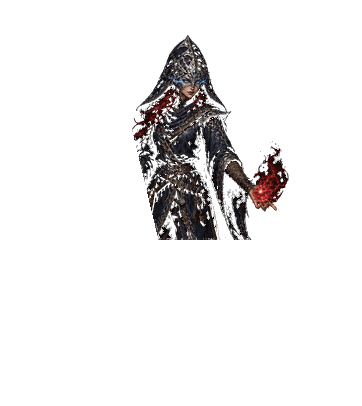
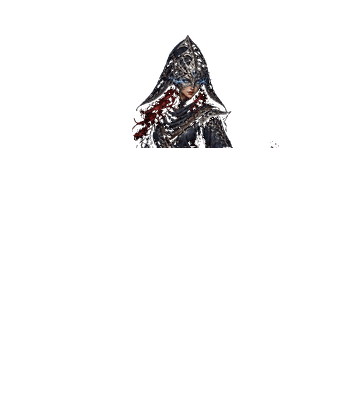
fix(mage): 마법사 모자·투구 파츠에서 상반신 걷어내기 — 투구만 빛나고 로브는 원래 색 (작업 247) (#252)
* fix(mage): 마법사 모자·투구 파츠에서 상반신 걷어내기 — 투구만 빛나고 로브는 원래 색 (작업 247)

원인: mage_helms 파츠 20장이 머리·모자만이 아니라 어깨·가슴·허리·양팔·왼손 불꽃(셀 y 195)까지 담고 있어, 투구를 쓰면 파츠가 로브 위를 덮고 등급색 발광이 상반신 전체를 물들였다(IMG_1147).

- 파츠 마스크를 머리 구멍과 같은 목선(NECK_Y=104)에서 끝나게 하고 20장을 같은 시안에서 재생성(작업 227 알파 기준 유지)
- 마법사 투구 발광 마스크(성별, 캔버스 캐시): 목선으로 사라지는 페이드 + 얼굴 도려내기. 필드는 syncGearGlow maskTexture, 장비창은 paintPatch destination-in
- PILOT_ASSET_VERSION 4 → 5 (같은 파일명 재배포 캐시 무효화)

* docs: 작업 247 프리뷰 배포 실측 기록(자산 md5 일치·번들 확인)

---------

Changed region(s): [[0.3646, 0.3547, 0.8204, 0.5911]]

diff --git a/src/game/render/mageHelmets.ts b/src/game/render/mageHelmets.ts
@@ -1,4 +1,5 @@
 import type { Gender, Save } from '../store';
+import { Texture } from 'pixi.js';
 import { baseItemIndex } from '../items';
 import { pilotSheet } from './pilotAssets';
 
@@ -127,3 +128,83 @@ export function mageHelmPlacement(gender: Gender, motion: MageHelmMotion, frame 
 
 /** 장비창(내 정보) 초상화는 서기 한 장만 쓴다. */
 export const mageHelmIdlePlacement = idlePlacement;
+
+/* ── 투구 발광 마스크 (작업 247) ─────────────────────────────────────────── */
+
+/** 파츠 PNG의 셀 크기·높이(셀 362 + 위 여유 44). */
+export const MAGE_HELM_CELL = 362;
+export const MAGE_HELM_PART_HEIGHT = MAGE_HELM_CELL + MAGE_HELM_EXTRA_TOP;
+
+/**
+ * 발광 범위 — “모자·투구만 빛나고 얼굴과 로브는 원래 색” 을 만드는 경계(셀 좌표).
+ *
+ * · `fadeStart`~`fadeEnd`: 목선으로 갈수록 빛이 사라진다. 파츠가 목선(셀 y 104)에서 끊기므로,
+ *   그대로 두면 가슴께에 **직선으로 잘린 발광 띠**가 남는다(실측 검수에서 확인).
+ * · `face`: 얼굴·목의 피부는 빛을 받지 않게 부드럽게 도려낸다. 파츠에 얼굴이 함께 들어 있어
+ *   그냥 두면 유니크·전설 투구에서 얼굴이 통째로 등급색 덩어리가 된다.
+ *
+ * 남녀 모두 서기 셀의 같은 자리(머리 중심 x≈194/205)에 얼굴이 있어 성별로만 나눈다.
+ */
+export type MageHelmGlowZone = {
+  fadeStart: number;
+  fadeEnd: number;
+  face: { x: number; y: number; inner: number; outer: number };
+};
+
+export const MAGE_HELM_GLOW_ZONE: Record<Gender, MageHelmGlowZone> = {
+  female: { fadeStart: 84, fadeEnd: 106, face: { x: 194, y: 48, inner: 20, outer: 34 } },
+  male: { fadeStart: 84, fadeEnd: 108, face: { x: 205, y: 52, inner: 22, outer: 36 } }
+};
+
+/**
+ * 셀 좌표 한 점의 발광 세기(0~1). 캔버스 생성과 테스트가 **같은 식**을 쓴다.
+ *
+ * 목선 쪽은 선형으로 줄고, 얼굴은 `inner`까지 완전히 0, `outer`까지 smoothstep으로 올라온다.
+ */
+export function mageHelmGlowAlpha(gender: Gender, x: number, y: number): number {
+  const zone = MAGE_HELM_GLOW_ZONE[gender];
+  const span = Math.max(1, zone.fadeEnd - zone.fadeStart);
+  const fade = Math.min(1, Math.max(0, (zone.fadeEnd - y) / span));
+  const reach = Math.hypot(x - zone.face.x, y - zone.face.y);
+  const skin = Math.min(1, Math.max(0, (reach - zone.face.inner) / Math.max(1, zone.face.outer - zone.face.inner)));
+  return fade * (skin * skin * (3 - 2 * skin));
+}
+
+const glowMaskTextures = new Map<Gender, Texture>();
+
+/**
+ * 발광 마스크 캔버스 — 파츠와 같은 362×406 이라 파츠와 **같은 앵커·위치·배율**로 얹으면 된다.
+ * 픽셀마다 `mageHelmGlowAlpha` 를 알파로 굽는다(RGB는 흰색, 마스크는 알파만 쓴다).
+ */
+export function mageHelmGlowMaskCanvas(gender: Gender): HTMLCanvasElement | undefined {
+  if (typeof document === 'undefined') return undefined;
+  const canvas = document.createElement('canvas');
+  canvas.width = MAGE_HELM_CELL;
+  canvas.height = MAGE_HELM_PART_HEIGHT;
+  const context = canvas.getContext('2d');
+  if (!context) return undefined;
+  const frame = context.createImageData(MAGE_HELM_CELL, MAGE_HELM_PART_HEIGHT);
+  const pixels = frame.data;
+  for (let row = 0; row < MAGE_HELM_PART_HEIGHT; row += 1) {
+    const cellY = row - MAGE_HELM_EXTRA_TOP;
+    for (let column = 0; column < MAGE_HELM_CELL; column += 1) {
+      const index = (row * MAGE_HELM_CELL + column) * 4;
+      const alpha = mageHelmGlowAlpha(gender, column, cellY);
+      pixels[index] = 255; pixels[index + 1] = 255; pixels[index + 2] = 255;
+      pixels[index + 3] = Math.round(alpha * 255);
+    }
+  }
+  context.putImageData(frame, 0, 0);
+  return canvas;
+}
+
+/** 필드 발광 스프라이트의 마스크 텍스처(성별당 1장, 캐시). */
+export function mageHelmGlowMaskTexture(gender: Gender): Texture | undefined {
+  const cached = glowMaskTextures.get(gender);
+  if (cached) return cached;
+  const canvas = mageHelmGlowMaskCanvas(gender);
+  if (!canvas) return undefined;
+  const texture = Texture.from(canvas);
+  glowMaskTextures.set(gender, texture);
+  return texture;
+}

diff --git a/src/ui/equipmentPortrait.ts b/src/ui/equipmentPortrait.ts
@@ -14,7 +14,7 @@ import { WEAPON_GUARD, weaponIndexFor, weaponPartPath, weaponPose, swordlessBody
 import { BOW_GRIP, bowIndexFor, bowPartPath, bowPose, bowlessBodyPath, usesBowlessBody } from '../game/render/bows';
 import { STAFF_GRIP, staffIndexFor, staffPartPath, staffPlacement, stafflessBodyPath, usesStafflessBody } from '../game/render/staffs';
 import { archerHeadlessBodyPath, archerHelmIdlePlacement, archerHelmIndexFor, archerHelmPartPath } from '../game/render/archerHelmets';
-import { mageHeadlessBodyPath, mageHelmIdlePlacement, mageHelmIndexFor, mageHelmPartPath } from '../game/render/mageHelmets';
+import { mageHeadlessBodyPath, mageHelmGlowMaskCanvas, mageHelmIdlePlacement, mageHelmIndexFor, mageHelmPartPath } from '../game/render/mageHelmets';
 import { gearGlowCss, gearGlowTone } from '../game/render/gearGlow';
 
 /**
@@ -179,6 +179,8 @@ export type EquipmentPortraitMageHelm = {
   x: number;
   y: number;
   scale: number;
+  /** 발광 마스크(얼굴·목선 아래 제외)를 고를 때 쓰는 성별(작업 247). */
+  gender: Save['gender'];
 };
 
 /** 착용 마법사 투구 파츠. 마법사가 아니거나 투구가 없으면 undefined. */
@@ -187,7 +189,7 @@ export function equipmentPortraitMageHelm(save: Save): EquipmentPortraitMageHelm
   const path = mageHelmPartPath(save.gender, mageHelmIndexFor(save));
   if (!path) return undefined;
   const place = mageHelmIdlePlacement;
-  return { path, x: place.x, y: place.y, scale: place.scale };
+  return { path, x: place.x, y: place.y, scale: place.scale, gender: save.gender };
 }
 
 export type EquipmentPortraitHelmet = {
@@ -449,7 +451,7 @@ const headCell = { x: 228, y: 74, rx: 38, ry: 44 } as const;
  */
 function paintPatch(
   context: CanvasRenderingContext2D, image: HTMLImageElement,
-  x: number, y: number, width: number, height: number, glow?: string
+  x: number, y: number, width: number, height: number, glow?: string, mask?: HTMLCanvasElement
 ): void {
   if (!glow) { context.drawImage(image, x, y, width, height); return; }
   const tinted = document.createElement('canvas');
@@ -478,6 +480,14 @@ function paintPatch(
     pixels[index + 2] = Math.min(255, rgb[2] * light);
   }
   paint.putImageData(frame, 0, 0);
+  // [작업 247] 마법사 모자·투구 — 얼굴과 목선 아래는 빛에 물들지 않게 마스크로 도려낸다.
+  // (`destination-in`: 마스크 알파가 0인 곳을 지운다. 마스크는 파츠와 같은 크기다.)
+  if (mask) {
+    paint.save();
+    paint.globalCompositeOperation = 'destination-in';
+    paint.drawImage(mask, 0, 0, tinted.width, tinted.height);
+    paint.restore();
+  }
   context.save();
   // [작업 231] 장비 윤곽 밖으로 번지는 후광도 두 배 가까이 넓혔다.
   context.shadowColor = glow;
@@ -570,7 +580,8 @@ async function composeFallback(
       // 마법사 투구 파츠도 362px 셀 전체 크기라, 본체 그림의 배율·좌상단에 그대로 얹는다.
       // 파츠 PNG 가 셀 위로 44행 더 크므로 y 가 음수이고, 그만큼 위 여백에 그려진다.
       const layerScale = mageHelm.scale * scale;
-      paintPatch(context, patch, left + mageHelm.x * scale, top + mageHelm.y * scale, patch.naturalWidth * layerScale, patch.naturalHeight * layerScale, glow?.color);
+      paintPatch(context, patch, left + mageHelm.x * scale, top + mageHelm.y * scale, patch.naturalWidth * layerScale, patch.naturalHeight * layerScale,
+        glow?.color, glow ? mageHelmGlowMaskCanvas(mageHelm.gender) : undefined);
     } catch (error) {
       console.info('[장비창] 마법사 투구 파츠 로딩 실패 → 전신 그림만 표시:', error);
     }

diff --git a/src/game/render/entities.ts b/src/game/render/entities.ts
@@ -15,7 +15,7 @@ import { wearableEquipmentImage, baseItemIndex, usesBaseSheetOnly, hasNoWeapon, 
 import { jobOrDefault } from '../skills';
 import { helmetArtFor, helmetArtPath, helmetPlacement } from './helmets';
 import { archerHelmIndexFor, archerHelmPartPath, archerHelmPlacement } from './archerHelmets';
-import { mageHelmIndexFor, mageHelmPartPath, mageHelmPlacement } from './mageHelmets';
+import { mageHelmIndexFor, mageHelmGlowMaskTexture, mageHelmPartPath, mageHelmPlacement } from './mageHelmets';
 import { armorIndexFor } from './armors';
 import { archerArmorIndexFor } from './archerArmors';
 import { hasRobeSheet, mageRobeIndexFor } from './robes';
@@ -392,7 +392,7 @@ export const GEAR_GLOW_LABEL = 'gear-glow';
 
 function syncGearGlow(
   view: GameView, key: 'armor' | 'helmet' | 'weapon', source: Sprite | undefined, rarity: Rarity | undefined,
-  time: number, neckY?: number
+  time: number, neckY?: number, maskTexture?: Texture
 ): void {
   const tone = gearGlowTone(rarity);
   // 테스트용 스텁 뷰는 이 지도를 만들지 않는다 — 없으면 그 자리에서 만든다.
@@ -425,6 +425,23 @@ function syncGearGlow(
     mask.position.set(-width * source.anchor.x, top);
     mask.width = width;
     mask.height = Math.max(1, bottom - top);
+  } else if (maskTexture) {
+    // [작업 247] 마법사 모자·투구 — 얼굴과 목선 아래로는 빛이 번지지 않게 마스크를 건다.
+    // 마스크 텍스처가 파츠와 같은 362×406 이라 앵커·위치·배율을 그대로 복사하면 된다.
+    mask = view.heroHelmGlowMask ?? (() => {
+      const span = new Sprite(maskTexture);
+      span.anchor.set(0, 0);
+      // 릴상 복제(`cloneHeroLayers`)가 마스크를 몸으로 찍지 않도록 발광 레이어 표식을 단다.
+      span.label = GEAR_GLOW_LABEL;
+      view.heroLayer.addChild(span);
+      view.heroHelmGlowMask = span;
+      return span;
+    })();
+    mask.texture = maskTexture;
+    mask.anchor.set(source.anchor.x, source.anchor.y);
+    mask.position.set(source.position.x, source.position.y);
+    mask.scale.set(source.scale.x, source.scale.y);
+    mask.rotation = source.rotation;
   }
   // 발광 층은 밝기 비례 등급색으로 구운 1/3 크기 텍스처를 쓴다(원본 `tint`만으로는 어두운 갑옷이
   // 거의 빛나지 않는다). 원본과 같은 앵커·위치에서 축소한 만큼 키워 얹는다.
@@ -695,7 +712,10 @@ export function drawHero(this: GameView, world: World, x: number, y: number, tim
       ? 104
       : helmetPlacement(save.gender, animation, animation === 'walk' ? walkingFrame : animatedAttack ? Math.max(0, attackFrame) : 0, Math.max(0, helmetIndex(save))).y;
     syncGearGlow(this, 'armor', this.hero, save.equipment.armor?.rarity, time, neckY);
-    syncGearGlow(this, 'helmet', wornHelmet, save.equipment.helmet?.rarity, time);
+    // [작업 247] 마법사 투구는 파츠에 얼굴이 함께 있어 그대로 두면 얼굴까지 등급색이 된다 —
+    // 성별 발광 마스크(얼굴·목선 아래 제외)를 투구 발광에만 건다(전사·궁수 투구는 예전 그대로).
+    const mageHelmGlowMask = mage && mageHelm >= 0 ? mageHelmGlowMaskTexture(save.gender) : undefined;
+    syncGearGlow(this, 'helmet', wornHelmet, save.equipment.helmet?.rarity, time, undefined, mageHelmGlowMask);
     syncGearGlow(this, 'weapon', wornWeapon, save.equipment.weapon?.rarity, time);
     let bob = 0;
     const local = world.effects.filter(effect => effect.kind !== 'hit' && effect.kind !== 'death' && Math.hypot(effect.x - player.x, effect.y - player.y) < 2);

diff --git a/src/game/render/pilotAssets.ts b/src/game/render/pilotAssets.ts
@@ -10,10 +10,11 @@
  * 서기(`idle`)에만 `?v=2`를 붙이던 규칙 대신 **pilot-25d 경로 전체**에 이 버전을 붙인다.
  *
  * [작업 229]는 전사 서기 시트를 222 이전 그립으로 되돌렸다 — 파일명이 같으므로 3 → 4로 올린다.
+ * [작업 247]은 마법사 모자·투구 파츠 20장에서 상반신을 걷어냈다 — 같은 파일명이므로 4 → 5.
  *
- * 새 시트를 같은 파일명으로 다시 구울 때는 이 값만 올린다(4 → 5).
+ * 새 시트를 같은 파일명으로 다시 구울 때는 이 값만 올린다(5 → 6).
  */
-export const PILOT_ASSET_VERSION = 4;
+export const PILOT_ASSET_VERSION = 5;
 
 /** pilot-25d 시트 URL 하나에 배포본 버전을 붙인다(기존 `?v=N`은 교체). */
 export function pilotSheet(path: string): string {

diff --git a/src/game/render.ts b/src/game/render.ts
@@ -270,6 +270,8 @@ export class GameView {
   heroGlow = new Map<string, Sprite[]>();
   /** 갑옷 발광을 목 아래로 자르는 마스크(작업 218) — 얼굴은 원래 색으로 남긴다. */
   heroGlowMask?: Sprite;
+  /** 마법사 투구 발광 마스크(작업 247) — 얼굴·목선 아래로는 빛이 번지지 않는다. */
+  heroHelmGlowMask?: Sprite;
   /** 독립형 코스튬 렌더러 상태(작업 140). 매니페스트·아틀라스가 없으면 폴백으로 굳는다. */
   costume: CostumeHeroState = createCostumeHeroState();
   enemies = new Map<Enemy, Sprite>();

diff --git a/scripts/build-mage-helm-parts.py b/scripts/build-mage-helm-parts.py
@@ -29,6 +29,9 @@
 ④ 고깔모·후광·날개·뿔은 상자 밖(위·옆)으로 뻗는다. 그 부분은 지우지 않고 **파츠로만 덧그린다**
    (`extras`). 그래서 파츠 PNG는 셀 위로 44행 더 큰 362×406이고, 그리기 좌표는
    `MAGE_HELM_EXTRA_TOP` 만큼 위로 올린다.
+⑤ 파츠와 머리 구멍은 **목선(`NECK_Y` = 셀 y 104)에서 끝난다**(작업 247). 그 아래 가슴·허리·
+   양팔·왼손의 불꽃은 파츠에 넣지 않는다 — 넣으면 파츠가 입고 있는 로브를 덮어 상체 옷이 바뀌어
+   보이고, 유니크·전설 발광이 투구 대신 상반신 전체를 물들인다(작업 204의 증상).
 ⑤ 걷기·공격 프레임은 머리 위치·크기가 서기와 달라서, 서기 얼굴을 템플릿으로 각 프레임에서
    (배율·이동)을 찾아 그 변환을 파츠와 구멍에 똑같이 적용한다(값은 `src/game/render/mageHelmets.ts` 표).
 
@@ -75,11 +78,15 @@ CORE_ERODE = 2             # 지우는 영역은 파츠가 덮는 영역보다 2
 # 지우는 상자(셀 좌표) — 머리·목 아래(목덜미)까지. 이 안에서 **본체 실루엣이 있는 곳**을 지운다.
 # 본체에 있던 픽셀만 지우면 파츠가 그 자리를 그대로 덮고(같은 원본), 투구가 머리카락을 없앤 시안은
 # 파츠도 비어 있어 배경이 비친다 — 어느 쪽이든 자연스럽다.
-ERASE_BOX = {'male': (128, 242, -EXTRA_TOP, 104), 'female': (124, 256, -EXTRA_TOP, 104)}
-# 덧그리는 상자 — 고깔모 챙·날개·후광·후드 망토·어깨 장식까지. 아래 경계가 파츠의 마지막 줄(이음새)이다.
-# 오른쪽은 어깨·후광이 잘리지 않게 넓게 잡는다. 든 손(마법 광채)도 함께 들어오지만 같은 그림이라
-# 겹쳐 그려도 모양이 같다(지팡이만 통로로 뺀다).
-EXTRA_BOX = {'male': (80, 300, -EXTRA_TOP, 176), 'female': (76, 312, -EXTRA_TOP, 196)}
+# 목선(셀 좌표) — **파츠와 머리 구멍이 함께 끝나는 높이**다. 이 아래(가슴·허리·양팔, 특히 왼손의
+# 불꽃)는 파츠에 넣지 않는다(작업 247). 파츠가 거기까지 들어 있으면 로브 위를 덮어 상체 옷이
+# 바뀌어 보이고, 등급색 발광도 투구가 아니라 상반신 전체를 물들인다.
+NECK_Y = 104
+ERASE_BOX = {'male': (128, 242, -EXTRA_TOP, NECK_Y), 'female': (124, 256, -EXTRA_TOP, NECK_Y)}
+# 덧그리는 상자 — 고깔모 챙·날개·후광·후드·어깨 망토까지. 아래 경계가 파츠의 마지막 줄(목선)이다.
+# 오른쪽은 어깨·후광이 잘리지 않게 넓게 잡는다(지팡이만 통로로 뺀다).
+# [작업 247] 예전에는 y=196/176(허리)까지라 상체 로브·팔·불꽃이 파츠에 통째로 딸려 들어왔다.
+EXTRA_BOX = {'male': (80, 300, -EXTRA_TOP, NECK_Y), 'female': (76, 312, -EXTRA_TOP, NECK_Y)}
 
 # 지팡이 통로(서기 자세 그립 기준, `staffs.ts` STAFF_POSES idle0 과 같은 값) — 파츠에서 뺀다.
 STAFF_LINE = {'male': ((85, 58), (150, 330)), 'female': ((84, 0), (168, 351))}

diff --git a/docs/CODE_MAP.md b/docs/CODE_MAP.md
@@ -10,7 +10,7 @@
 | 배포 점검 모드 — 접속 중 강제 로그인 화면 이동·"점검 진행 중입니다"+예상 시간 팝업(작업 256) | `src/game/maintenance.ts`(`MAINTENANCE_URL`·`parseMaintenance`·`maintenanceEtaText`·`maintenancePopupMarkup`·`isMaintenanceResponse`·`fetchMaintenance`·`MAINTENANCE_EVENT`·`MaintenanceWatch`(20초·탭 복귀·켜진 순간 1회)), `public/maintenance.json`(스위치) | `src/ui/maintenance.ts`(`showMaintenancePopup`·`setLoginBlocked`), `src/ui/login.ts`(첫 확인 뒤 토큰 자동 복원·점검 중 입력/버튼 잠금·API 503 점검 안내), `src/main.ts`(사냥 중 감시·전투 정지→저장→로그인 화면 새로고침), `src/styles/login.css`(`.maintenance-layer`·`.maintenance-card`·`.maintenance-eta`·`.maintenance-check`·`.is-maintenance`), `public/_headers`(`no-store`), `server/maintenance.mjs`(`maintenanceMode`·`maintenanceResponse`)·`server/endpoints/account.mjs`(입구), `AGENTS.md`·`CONTRIBUTING.md` §16(배포·오픈 정책) | `maintenance-policy`, `login-maintenance`, `sync`, `functions-adapter` |
 | 가방 스킬북 합성(타직업 5권 → 내 직업 1권·자동 합성·작은 팝업 연출, 작업 251 → 252 UI 다듬기·운영) | `src/game/skillSynth.ts`(`SYNTH_BOOK_COST`·`synthMaterials`·`synthCapacity`·`synthesizeSkillBooks`·`synthesizeAllAvailable`·`stackSynthBooks`), `src/game/items.ts`(`rollSkillBookFor(job)`·`skillBookItem`), `src/ui/modals/synthModal.ts`(`openSynthWindow`·`SYNTH_GATHER_MS`/`SYNTH_BURST_MS`/`SYNTH_RESULT_MS`/`SYNTH_MOTION_MS`·`refresh`/`renderSlots`), `src/ui/modals/equipModal.ts`(바닥줄 `합성` 버튼), `src/styles/modals.css`(`.synth-*`) | `src/game/previewOnly.ts`(`isPreviewClient` — 미리보기 전용 UI 가드), `src/game/pouch.ts`(`discardPouch`·`discardAllPouches`·40칸 초과 개봉 허용), `src/ui/modals/pouchModal.ts`(개봉 창 버리기 줄), `server/journey-state.mjs`(`PREVIEW_SKILLBOOK_MAIL_*`·`grantPreviewSkillBookMails`), `server/journey.mjs`(`rewards()`의 `bookJobCycle`), `server/skill-ids.mjs`(`rollRewardSkillBookOfJob`) | `skillbook-synth`, `treasure-pouch`, `journey`, `bag-skillbook-stack`, `skillbook-server` |
 | 장비 추가옵션(에픽 1·유니크 2·전설 3개, 9종 1~3%, 작업 238) | `src/game/extraOptions.ts`(`extraOptionKeys`·`extraOptionCounts`·`deriveExtraOptions`(id 시드)·`extraOptionsFor`·`normalizeExtraOptions`·`extraOptionTotals`/`effectiveExtraOptions`(회피 30%·회복 12%/5초·피흡 15% 상한)·`extraOptionPower`·`extraOptionLines`), `src/game/items.ts`(`EquipmentItem.extraOptions`·`rollEquipment`·`migrateItem`·`totalStats`·`itemPower`) | `src/game/world.ts`(회피·5초 회복·피흡·추가 데미지·`Effect.kind='evade'/'heal'`), `src/game/worldBossRehearsal.ts`, `src/game/render/vfx.ts`(라벨), `src/ui/skillsFeedback.ts`, `src/ui/modals/{equipModal,marketModal,warehouseModal}.ts`, `src/ui/equippedDetail.ts`, `src/styles/modals.css`(`.item-extra`·`.equipment-info-extras`·`.warehouse-extra`), `server/extra-options.mjs`(같은 식 사본·`normalizeExtraOptions`), `server/{save-guard,database}.mjs`, `server/endpoints/warehouse.mjs` | `extra-options`, `item-plus`, `save-guard`, `equipment-info`, `warehouse-grid` |
-| 캐릭터·장비 시트가 반투명(황야 바닥이 몸통 뒤로 비침, 작업 227 → 229) | `scripts/restore-pilot-alpha.py`(알파 복원 규칙·멱등 — 서기 시트를 갈 때마다 다시 돌린다), `src/game/render/pilotAssets.ts`(`PILOT_ASSET_VERSION`=4·`pilotSheet`·`pilotSheets`) | `public/assets/pilot-25d/**`(267장), `src/game/render/{armors,weapons,bows,staffs,robes,archerArmors,helmets,mageHelmets,archerHelmets}.ts`·`src/game/render.ts`·`src/ui/equipmentPortrait.ts` — 모든 pilot URL이 `pilotSheet()`를 지난다 | `pilot-alpha`, `weapon-render`, `armor-render`, archer·mage·bow·staff·robe·helm 렌더 테스트 |
+| 캐릭터·장비 시트가 반투명(황야 바닥이 몸통 뒤로 비침, 작업 227 → 229) | `scripts/restore-pilot-alpha.py`(알파 복원 규칙·멱등 — 서기 시트를 갈 때마다 다시 돌린다), `src/game/render/pilotAssets.ts`(`PILOT_ASSET_VERSION`=5·`pilotSheet`·`pilotSheets`) | `public/assets/pilot-25d/**`(267장), `src/game/render/{armors,weapons,bows,staffs,robes,archerArmors,helmets,mageHelmets,archerHelmets}.ts`·`src/game/render.ts`·`src/ui/equipmentPortrait.ts` — 모든 pilot URL이 `pilotSheet()`를 지난다 | `pilot-alpha`, `weapon-render`, `armor-render`, archer·mage·bow·staff·robe·helm 렌더 테스트 |
 | 첫 화면 `Failed to fetch dynamically imported module`(작업 219 → 224) | `index.html`·`public/boot-recovery.js`(작업 224: `vite:preloadError` + `error`·`unhandledrejection`의 동적 import 실패 문구를 모두 받아 **60초에 1회** `_boot` 쿼리로 캐시를 우회해 다시 연다), `src/game/wasteland.ts`(`Assets`·`mountAmbientScene` 정적 import), `src/game/wastelandGeometry.ts` | `ambientMotion.ts`·`ambientScene.ts`는 좌표 값을 geometry에서 읽어 순환 참조를 피함; `main.ts`·저장/API 계약은 수정하지 않음 | `boot-recovery`, `wasteland`, `ambient-motion` |
 | 최고층에서 2층 이상 내려왔을 때 `▲ 최고층` 복귀 버튼(작업 224 `#6215`) | `src/ui/hud.ts`(`renderStatus`의 `.status-floor` — `save.maxFloor - save.floor >= 2`일 때만 버튼·클릭 시 `world.travelToFloor(save.maxFloor)`), `src/styles/hud.css`(`.floor-return`) | `src/game/world.ts` `travelToFloor`(이미 최고층까지 이동)·보스 도전 버튼(`.boss-retry`) 로직·층 선택 창(`floorModal`) | `floor-return`, `world-movement` |
 | 던전 몹·보스 공격력 정상화·드롭 5% 고정·보스 확정 2개·10층 구간 등급표·보상창 정리(작업 248) | `src/ui/dungeonBattle.ts`(`dungeonHitDamage(층, 보스, 방어, 정예)` = `enemyHitDamage(층×2, …)`·상한 없음, `DUNGEON_DROP_CHANCE_{BASE,STEP,MAX}` .05/0/.05, `dropLoot`의 `rollDungeonItem`·`bossItems`), `src/game/items.ts`(`dungeonRarityTier`·`DUNGEON_RARITY_TIERS`·`DUNGEON_BOSS_RARITY_TIERS`·`dungeonRarityFor`·`rollDungeonItem`), `src/game/bossLoot.ts`(`BOSS_ITEM_DROPS` 2·`rollBossItem`), `src/ui/dungeonRewardMarkup.ts`(`dungeonResultRows`·`dungeonResultItemsMarkup` — 등급색·`[등급]`·장비 먼저/스킬북 묶음), `src/styles/dungeon.css`(`.dungeon-result-items li.rarity-*` 여섯 등급·`.dungeon-result-grade`) | **피해 식을 서버에 따로 적기**(`server/dungeon-verify.mjs`는 `runDungeonBattle`을 그대로 돌린다 — 테스트가 `enemyHitDamage` 부재를 확인)·최대 체력 % 상한 되살리기(던전이 무피해가 된다)·`dungeonRarityFor`의 0구간 값을 올리기(1~10층 손맛이 바뀐다)·등급표 행 순서·`rare<magic` 깨기·보스 드롭 5개로 되돌리기 | `node --test tests/dungeon-248.test.mjs tests/dungeon-battle.test.mjs tests/dungeon-verify.test.mjs tests/dungeon-ranking.test.mjs tests/dungeon-rewards.test.mjs tests/extra-options.test.mjs` |
@@ -187,7 +187,8 @@
 - `render.ts` (241) — PixiJS 뷰·에셋 경로·draw 진입점. `GameView`(`mount`,`draw`, hero/enemy/vfx/loot 위임 메서드, `lootBack`/`lootFront`·`lootViews`·`lootTaken`), `paths`/`animationPaths`/`attackSheets`/`walkSheets`, `renderAssetPaths`, `Art`. `walkSheets`는 가로/세로 비가 2.5 초과면 4포즈 1줄(세로 290), 아니면 8포즈 4×2로 자른다. 스테이지 순서: 바닥 → 조명 → 그림자 → 지형 → `lootBack` → 배우 → `lootFront` → 시체 → 스킬 → 이펙트 → 라벨 → 비네트.
 - `render/armors.ts` — 착용 갑옷 10종 전신 시트(`armors/`·`armors/headless/`)의 경로·프레임·인덱스 규칙(작업 155). 시트는 기준 pilot 시트와 같은 362px 셀(서기 362×362, 걷기·공격 1448×362)이고, `armorIndexFor(save)` 가 갑옷 없음·기본형 아님을 -1 로 돌려준다.
 - `render/robes.ts` (작업 203, 신규) — 마법사 전용 로브 10종 시트 규칙. `mageRobeIndexFor(save)`(마법사가 아니거나 갑옷이 없으면 -1, 0~9는 `baseItems.armor` 인덱스), `robeSheetPath`/`robeSheetPaths`(1~9번만 `robes/` 시트, 0번은 스타터 천 로브 기준 시트), `robeFrameIndex`(4프레임 접힘), `robeSheetKey`. 시트는 기준 마법사 시트와 같은 362px 셀(서기 362×362, 걷기·공격 1448×362)이고, 로딩·캐시는 `render.ts`의 `robeFrame`·`prefetchRobe`(최근 3티어 `robeTierCacheLimit=3`)가 맡는다. 지팡이는 아직 본체 시트에 그려져 있어 로브 시트도 같은 지팡이를 유지한 판본이다.
-- `render/mageHelmets.ts` (작업 204, 신규) — 마법사 전용 모자·투구 10종 파츠 규칙. `MAGE_HELM_COUNT`(10)·`MAGE_HELM_EXTRA_TOP`(44, 파츠 PNG가 셀보다 위로 큰 행 수)·`mageHelmPartPath`/`mageHelmPartPaths`(20장, 장당 9~19KB)·`mageHelmIndexFor(save)`(투구 없음·기본형 아님 -1)·`mageHelmPlacement(성별, 동작, 프레임)`(서기 `{0,-44,1}`, 걷기·공격 4프레임)·`mageHeadlessBodyPath`/`mageHeadlessBodyPaths`(지팡이 착용 여부로 `mage_headless/`·`mage_headless/nostaff/`). 파츠와 머리 없는 시트는 `scripts/build-mage-helm-parts.py`가 승인 시안(`downloads/mage_helm_v2/`)에서 만든다 — 지우는 구멍은 게임에 들어간 서기 셀 실루엣에서 자동으로 딴다.
+- `render/mageHelmets.ts` (작업 204, 신규) — 마법사 전용 모자·투구 10종 파츠 규칙.
+  [작업 247] 파츠는 **목선(셀 y 104)에서 끝난다**(상반신을 담지 않는다) — `scripts/build-mage-helm-parts.py` 의 `NECK_Y`·`EXTRA_BOX`, `ERASE_BOX`(머리 구멍)와 같은 높이다. 같은 파일에 발광 범위 마스크 `MAGE_HELM_GLOW_ZONE`(성별 목선 페이드 84→106/108·얼굴 원)·`mageHelmGlowAlpha(성별,x,y)`(0~1, 캔버스와 테스트의 공통 식)·`mageHelmGlowMaskCanvas`/`mageHelmGlowMaskTexture`(362×406, 성별당 1장 캐시, **새 PNG 없음**)가 있고, 필드는 `entities.ts` `syncGearGlow(..., maskTexture)` + `GameView.heroHelmGlowMask`, 장비창은 `equipmentPortrait.ts` `paintPatch` 의 `destination-in` 이 쓴다. `MAGE_HELM_COUNT`(10)·`MAGE_HELM_EXTRA_TOP`(44, 파츠 PNG가 셀보다 위로 큰 행 수)·`mageHelmPartPath`/`mageHelmPartPaths`(20장, 장당 9~19KB)·`mageHelmIndexFor(save)`(투구 없음·기본형 아님 -1)·`mageHelmPlacement(성별, 동작, 프레임)`(서기 `{0,-44,1}`, 걷기·공격 4프레임)·`mageHeadlessBodyPath`/`mageHeadlessBodyPaths`(지팡이 착용 여부로 `mage_headless/`·`mage_headless/nostaff/`). 파츠와 머리 없는 시트는 `scripts/build-mage-helm-parts.py`가 승인 시안(`downloads/mage_helm_v2/`)에서 만든다 — 지우는 구멍은 게임에 들어간 서기 셀 실루엣에서 자동으로 딴다.
 - `render/staffs.ts` (작업 201, 신규) — 착용 지팡이 10종 파츠 규칙. `STAFF_GRIP`(그립 점 (92,114))·`STAFF_POSES`(남녀 × 9자세 = 그립 좌표·회전각)·`staffIndexFor(save)`(지팡이 아니면 -1)·`staffPartPath`(0~9 모두 파츠)·`usesStafflessBody`·`stafflessBodyPath`(`mage_nostaff/` 본체 시트)·`staffTierCacheLimit`(3). 파츠는 `scripts/build-staff-parts.py`가 승인 시안(`tools/staff-src/`)에서 몸통 정합으로 뜬다.
 - `render/weapons.ts` (작업 156, 신규) — 착용 대검 10종 파츠 규칙. `WEAPON_POSES`(남녀 × 서기·걷기4·공격4 = 자세별 가드 좌표·회전각), `WEAPON_GUARD`(파츠 앵커), `weaponIndexFor(save)`(0 = 기본 두손검), `weaponPartPath`/`weaponPartPaths`(1~9번만 파츠), `usesSwordlessBody`, `swordlessBodyPath(s)`(`noweapon/` 본체 시트), `weaponTierCacheLimit`(3). 파츠는 `scripts/build-weapon-parts.py`가 승인 시안(`tools/weapon-src/`)에서 뜬다.
 - `render/entities.ts` — 히어로·적·시체·잔상 그리기. `drawHero`, `activeSkillMotion`, `updateAfterimages`, `updateCorpses`, `drawEntities`. `drawHero`는 **코스튬 레이어 경로 → 폴백(통합 바디 + 무기 소켓) 경로** 순서로 시도하고, 모션·프레임·재생 배율은 `heroMotion.ts`, 본체 배율·그림자 반지는 두 경로가 같은 식을 쓴다. 잔상은 코스튬 모드에서 보이는 레이어를 모두 복제한다.
@@ -441,3 +442,4 @@ npm run check && npm test && npm run build # 공용 계약 수정·사용자 요
 - 작업196 사용자 4건("오른쪽으로 … 보스죽은주변 흩뿌려줘", "일괄분해기준은 내가 설정한거 고정", "일괄분해 보호넣자 알림주자", "자동분해버튼넣고 활성화하면 접속중에만 된다고") + 고층 밸런스 2건: ① 금화 무더기를 오른쪽 시안(동전 22/23/22px·`squash .50`·1px `#482e0c` 테두리·2px `#8a5a12` 두께·밝기 1.10/대비 1.08)으로 바꾸고 두 화면이 `render/goldCoinArt`의 같은 칩을 쓴다(던전 색 보정 제거). ② `bossGoldSpot`을 화면 등각 바닥의 두 링(내부 44~56·외부 80~96px)으로 넓히고 각 무더기가 `from`(보스 자리)에서 포물선으로 날아간다. ③ 일괄 분해 기준은 `djrpg-salvage-rarity`에 저장(`ui/salvageRarity.ts`), `resetModalDefaults`에서 제거. ④ 장착품보다 강한 장비가 분해 대상에 있으면 `salvageUpgrades`가 확인 팝업으로 세운다(`.salvage-upgrade-list`). ⑤ `rollItem` 등급 컷을 깊이에 따라 올리고(78층 흰템 88.3%→60.1%, 레어 이상 7.5%) ⑥ `enemyMaxHp`를 블렌드 곡선으로(78층 4,386→15,359) ⑦ 접속 중 자동 분해 스위치(`ui/autoSalvage.ts`·`inventory.ts` `autoSalvageBlock`/`autoSalvageRecovered`·`world.ts` 회수 지점·장비창/설정 토글, 오프라인 보상 제외).- 작업195 사용자 3건: ① **메인 사냥 보스는 금화만**("메인층은 금화만 10무더기라고햇잖아") — `game/world.ts` `kill`이 보스에게 `bossItems(5)`를 뿌리던 분기를 없애고, 아이템은 일반 킬과 같은 **단일 확률 롤**(`equipmentDropChance(floor, boss)`·`skillBookDropChance(floor, boss)`·`rollItem(floor, guaranteed, boss)`)로 남겼다. 보스 금화 10무더기(`bossGoldPiles`/`bossGoldSpot`)·지급 시점·금액은 불변, 던전 5·10층은 예전대로 랜덤템 5개+10무더기(`bossItems`는 이제 던전 전용). ② **무더기 화질**("축소많이시킨거아냐?") — 256px `gold-coin.png`를 동전당 15~19px·`squash .56~.6`으로 눌러 쓰던 것을 동전 폭 **21~24px·`squash .65`**로 올려 뭉개짐을 줄이고, 필드 텍스처는 **밉맵 + 선형 샘플링**(`Assets.load({data:{scaleMode:'linear',autoGenerateMipmaps:true}})`·이미 로드된 텍스처에도 같은 설정)으로 줄인다. 던전 CSS는 무더기 기본 크기 24×16·`filter:none`(외곽광 없음)이고, 동전 아트(`gold-coin.png`)는 **그대로** 쓴다. ③ **새 에셋 금지**("무슨 똥덩어리를만들었어") — 195 1차에서 만든 전용 아트(`gold-pile.png`·`scripts/build-gold-pile.py`·`verify-item-art` 검사)는 **삭제**했고, 사용자가 확정한 시안(가운데) 수치 — 폭 22/21/24, `squash .65`, 오프셋 `(0,-9)`·`(10,-1)`·`(-10,1)` — 를 그대로 쓴다.
 
 - 작업210 캐릭터 선택 카드 외형 동기화: 카드 그림은 `equipmentPortrait.ts`의 공용 합성 경로를 그대로 쓴다. `charactersModal.ts` `characterPortraitSave(summary)`가 서버 `equipment`(투구·갑옷·무기 **이름**만)를 최소 `Save`로 바꿔 `equipmentPortraitPlan`/`renderEquipmentPortrait(save, {height: 360})`에 넘기고, 접속 중인 슬롯(`slot === ui.session.characterSlot`)만 `ui.world.save`를 써서 장비를 갈아입으면 모달을 다시 열 때 바로 반영된다. 서버는 `account.mjs` `portraitEquipment`가 `save_json`에서 외형 3슬롯의 이름만 40자로 잘라 내려보내고(능력치·가방·세이브 본문 없음), `renderEquipmentPortrait`의 캐시 키에 출력 높이를 붙여 장비창(720px)과 카드(360px)가 서로를 덮어쓰지 않는다. CSS는 `.character-slot img.character-portrait`(112px·`object-fit: contain`·`object-position: center bottom`)로 머리·무기를 자르지 않고 발끝을 맞춘다.
+| 마법사 투구만 유니크인데 로브 상체까지 빛남 / 투구를 쓰면 상체 옷이 바뀌어 보임(작업 247) | `scripts/build-mage-helm-parts.py`(`NECK_Y`=104 — 파츠와 머리 구멍이 같은 목선에서 끝난다), `src/game/render/mageHelmets.ts`(`MAGE_HELM_GLOW_ZONE`·`mageHelmGlowAlpha`·`mageHelmGlowMaskTexture`), `render/entities.ts` `syncGearGlow` 마스크 인자·`render.ts` `heroHelmGlowMask`, `ui/equipmentPortrait.ts` `paintPatch` 마스크(`destination-in`), 에셋 `public/assets/pilot-25d/mage_helms/*`(20장 재생성) | `tests/mage-helm-render`, `tests/gear-rarity-glow` |

diff --git a/docs/TASK.md b/docs/TASK.md
@@ -8,6 +8,7 @@
 
 | 작업 | 담당자 | 브랜치 | 수정 예정 파일 / 영향 영역 | 위험 등급 | 상태 |
 |---|---|---|---|---|---|
+| [작업 247] **마법사 모자·투구 파츠가 상반신 로브까지 덮어 로브가 함께 빛나던 문제** — 사용자 제보 "투규만 유니크인대 갑옷도 반짝거리네"(2026-11-21 02:23 KST, `IMG_1147`). ① **원인**: `public/assets/pilot-25d/mage_helms/{male,female}_{0..9}_v1.png`(362×406)가 머리·모자만 잘린 것이 아니라 **가슴·허리·양팔·왼손 불꽃까지(셀 y 195 = 파츠 y 239)** 담고 있었다. 그래서 투구를 쓰면 파츠가 입고 있는 로브 위를 덮어 상체 옷이 바뀌어 보이고, 등급색 발광(`gearGlow`)이 투구가 아니라 **상반신 전체**를 물들였다. ② **파츠 수정**(`scripts/build-mage-helm-parts.py`): 파츠 마스크 아래 경계를 `EXTRA_BOX` 의 y=196/176(허리)에서 **`NECK_Y`=104(목선)** 로 내렸다 — 머리 구멍(`ERASE_BOX`)과 같은 높이다. 20장을 같은 시안(`downloads/mage_helm_v2`)에서 다시 구워 9~19KB → **5~12KB**, `restore-pilot-alpha.py`로 작업 227의 내부 알파 기준(내부 불투명)을 그대로 맞췄다. ③ **발광 범위**(`src/game/render/mageHelmets.ts` 신규 `MAGE_HELM_GLOW_ZONE`·`mageHelmGlowAlpha`·`mageHelmGlowMaskCanvas`·`mageHelmGlowMaskTexture`): 파츠에 얼굴이 함께 들어 있어 그대로 두면 유니크·전설에서 얼굴이 등급색 덩어리가 되고, 파츠가 목선에서 끊긴 자리에 **직선으로 잘린 발광 띠**가 남는다 → 성별 발광 마스크를 캔버스로 구워(새 PNG 없음, 성별당 1장 캐시) 목선(84→106/108)으로 갈수록 빛이 사라지고 얼굴(inner 20~22px)은 도려낸다. 필드는 `entities.ts` `syncGearGlow` 의 7번째 인자로 마스크 텍스처를 받아 `GameView.heroHelmGlowMask`(파츠와 같은 앵커·위치·배율)로 걸고, 장비창은 `equipmentPortrait.ts` `paintPatch` 가 `destination-in` 으로 도려낸다(마법사 투구일 때만 — 전사·궁수 투구는 예전 그대로). ④ `PILOT_ASSET_VERSION` 4→5(같은 파일명 재배포 캐시 무효화). | songduckjin | `fix/247-mage-helm-torso` | `scripts/build-mage-helm-parts.py`, `public/assets/pilot-25d/mage_helms/*.png`(20장), `src/game/render/{mageHelmets,entities,render,pilotAssets}.ts`, `src/ui/equipmentPortrait.ts`, `tests/{mage-helm-render,gear-rarity-glow}.test.mjs`(신규 3건), `?v=4`→`?v=5` 기대값 13개 테스트 파일, `docs/{TASK,WORKLOG}.md` | 보통 | [-] — PR 대기(사용자 지시 "오늘부터는 모아서 배포" → **머지·배포 금지**). 검증: `npx tsc --noEmit`·`npm run build` 통과, 전체 1,060건 중 1,056 통과(실패 4건은 변경 전 `origin/main`과 동일: `costume-field-render` 2·`skillbook-server` 1·`hero-art` 1). 프리뷰 `44da4568.djrpg.pages.dev` 에서 `mage_helms/female_0_v1.png?v=5` 가 로컬과 같은 파일(md5 일치)이고 배포 번들에 `heroHelmGlowMask`·마스크 표가 들어간 것 확인, 게스트 마법사 캐릭터로 필드·내 정보 화면 정상 렌더 확인. 검수 이미지 `downloads/djrpg_mage_helm_torso_before_after_v1.png`(전/후)·`djrpg_mage_helm_glow_portrait_v1.png`(일반/유니크/전설)·`djrpg_mage_helm_glow_field_v1.png`(필드 42%)·`djrpg_mage_helm_glow_all_{female,male}_v1.png`(10종 전수). **남은 것**: 목선 위 어깨까지 파츠를 줄이려면 머리 구멍이 104까지인 `mage_headless` 12장 + `robes/headless` 54장을 함께 다시 구워야 한다(그대로 줄이면 어깨에 투명 구멍) — 이번에는 파츠·발광만 손봤다 |
 | [작업 254] **드롭률 재조정(전 층 고정 — 접속 0.39%·방치 0.30%·보스 4%) + 방치 보상에도 `자동 분해` 적용** — 사용자 확정(11-21): "방치는 1배로 접속은 1.3배로" → 선택 카드 응답 #8629 **"전 층 고정 — 방치 0.3% · 접속 0.39% · 보스 4%"**, "방치자동분해적용". ① `src/game/items.ts`: 층별 상승(작업 223 2배: 일반 0.40→1.60%·보스 6→24%)을 없애고 **전 층 고정** — `itemDropChance`(접속) 일반 `0.0039`·보스 `0.04`, `offlineDropChance`(방치) 일반 `0.003`·보스 `0.04`. 등급 확률(`rollRarity`)은 지금처럼 층이 올라갈수록 좋아진다(`equipmentDropChance`/`skillBookDropChance`는 접속 값의 70:30 호환) ② `src/game/offline.ts`: `applyOfflineRewards(save, elapsedSeconds, options?: { autoSalvage?, autoSalvagePlus? })`·`reward.salvaged { count, gold, stones }` — `receive`가 필드·던전과 같은 `autoSalvageRecovered`를 먼저 호출해 분해되면 가방에 넣지 않고 금화·강화석으로 정산(스킬북·보물 주머니·잠금·등급 초과·`+N` 초과·빈 슬롯·더 좋은 장비 보호 동일, `salvageCount`도 1회씩) ③ `src/main.ts` 첫 로그인 정산은 `readAutoSalvage()`/`readSalvageRarity()`/`readSalvagePlus()`, `src/ui/modals/charactersModal.ts` 캐릭터 전환 정산은 `ui.autoSalvage`/`ui.salvageRarity`/`ui.salvagePlus` ④ `src/ui/modals/offlineModal.ts`: `reward.salvaged.count > 0`이면 `자동 분해 N개 → 금화 X · 강화석 Y` 표시(`.offline-salvaged`) ⑤ `src/ui/autoSalvage.ts` 안내를 "접속·방치 사냥 모두 적용"으로(장비창·설정 토글 라벨도 `자동 분해`) ⑥ `server/save-guard.mjs` `rewardBudget`(`stones: ceil(kills×0.2)+5`·`gold`) 안에 방치 자동 분해 정산이 들어오는지 회귀 테스트로 확인(서버 상한 값 변경 없음) | fks3997 | `work/254-main` | `src/game/{items,offline}.ts`·`src/main.ts`·`src/ui/{autoSalvage,interface}.ts`·`src/ui/modals/{charactersModal,offlineModal,equipModal,utilityModal}.ts`·`src/styles/modals.css`·`tests/{offline,offline-auto-salvage(신규),auto-salvage,elite-mob,balance-196,salvage-plus}.test.mjs`·`docs/{TASK,WORKLOG,CODE_MAP,QUICK_PATCH}.md` | 보통 | [x] — **운영 배포 완료**. [PR #269](https://github.com/songduckjin/DJRPG/pull/269) 스쿼시 `52b086fdc898`(Cloudflare Pages SUCCESS·`Workers Builds: djrpg`는 `main`에서도 실패하는 상시 체크), 점검 해제 [PR #270](https://github.com/songduckjin/DJRPG/pull/270) `5ece4cda79f1`. 운영 `version.json`=`5ece4cda79f1`(`builtAt` 2026-11-21T06:27:28Z)·`maintenance.json active:false`·루트 200, 배포 번들 `assets/index-EYAGT7-d.js`(793,214B)에 `.0039`·`offlineDropChance`·`자동 분해 ${s.salvaged.count}개`·`접속·방치 사냥 모두 적용`, CSS `assets/index-DWQfFuAC.css`에 `.offline-salvaged` 포함 실측. 검증: `tsc --noEmit`·`vite build` 통과, 신규 `tests/offline-auto-salvage` 4/4, 관련 79/79(offline·auto-salvage·elite-mob·balance-196·salvage-plus·field-loot·offline-climb·bag-capacity·bag-job-books), 전체 1,140건 중 1,046 통과 — 실패 94건은 이 체크아웃의 `public/assets/**` 누락 ENOENT와 기존 `skillbook-server`(`hell` 이름)·코스튬 렌더로 작업 254와 무관. 운영 API 실측: 임시 계정 `t254chk152449` 가입 200 → 캐릭터 생성 200 → 저장 200 → 탈퇴 200(`characters:1`), 게스트 가입 200 → 탈퇴 200. **폰 실기 확인(방치 보상 팝업의 `자동 분해 N개 → 금화 · 강화석` 줄·드롭률 체감)은 사용자 몫** |
 | [작업 253] **판매 등록 그리드 줄 간격(`align-content: start`) · 내 직업 스킬북 가방 40칸 제외 · 공용창고 일괄 이동 N+1 제거와 이동 중 버튼 잠금** — 사용자 제보·지시(11-21): "판매등록창왜이러냐"(판매 등록 물품 줄 사이가 세로로 쩍 벌어짐) → "가방에 내 직업 스킬북 수량도 더하지 말라(별개로 빼라)" → "공용창고 선택 꺼내기 너무 느리다" → "로딩인지 모르겠음". ① `src/styles/market.css` `.market-register .market-register-grid`에 **`align-content: start`**(`flex: 1 1 auto`로 모달 높이를 채우면서 Grid 기본 `stretch`가 행을 늘려 생긴 간격) ② `countedInBag`(클라 `src/game/bagCapacity.ts`·서버 `server/skill-ids.mjs`)을 **내 직업 스킬북만 `false`, 장비·타직업 스킬북·보물 주머니 `true`**로(직업을 모르는 책은 칸을 쓴다) — 가방·우편·창고·거래소 카운트가 함께 따른다(248의 '전부 센다'를 되돌린 최종 규칙) ③ `server/endpoints/warehouse.mjs` `deposit`/`withdraw`의 아이템별 `await tx.execute`(N+1 — 40개면 DB 왕복 47회)를 **`IN (...)` 1회 조회 + `Map` 검증**으로, 쓰기를 `INSERT`(다중 VALUES) 1 + `UPDATE ... IN (...)` 2 / `DELETE` 1 + `UPDATE ... IN (...)` 2로 묶음(왕복 5회) ④ 창고 이동 중 헤더 `선택 보관`/`선택 꺼내기`·상세 `보관하기`/`꺼내기` 버튼 **`disabled` + `보관 중…`/`꺼내는 중…`** 표시 | fks3997 | `work/253-main` | `src/styles/market.css`·`src/game/bagCapacity.ts`·`server/{skill-ids,database,journey,market}.mjs`·`server/endpoints/warehouse.mjs`·`src/ui/modals/{warehouseModal,equipModal,utilityModal}.ts`·`src/game/{world,inventory,pouch,dungeonRewards}.ts`·`src/styles/modals.css`·`tests/{market-bundle-ui,bag-capacity,bag-job-books,bag-limit-recovery,bag-mail-cap,warehouse-grid,auto-salvage,dungeon-rewards,field-loot,market,offline}.test.mjs`·`docs/{TASK,WORKLOG,CODE_MAP,QUICK_PATCH}.md` | 보통 | [x] — **`main` 병합 완료** — [PR #268](https://github.com/songduckjin/DJRPG/pull/268) 스쿼시 `2add39ee9f6a`(2026-11-21, Cloudflare Pages SUCCESS·점검 모드 ON). 운영 실기 확인은 점검 해제 뒤 사용자 몫 |
 | [작업 256] **배포 시 점검 모드 강제 이동·예상 시간 팝업 + 배포/오픈 정책** — 사용자 정책(2026-11-21): ① 배포를 시작하면 `예상 시간`(eta)과 함께 점검 모드를 켠다 ② 접속 중인 모든 플레이어를 **로그인 화면으로 자동 복귀**시키고 그 위에 **"점검 진행 중입니다"** + 예상 시간 모달을 띄우며 점검 중에는 로그인·게스트 입장을 막는다 ③ 배포가 끝나면 `version.json`·`/`·`/api/account`·로그인/사냥 스모크로 **전수 정상화 확인**을 통과한 뒤에만 점검을 끄고 연다. ① **정적 스위치**: `public/maintenance.json`(`{active,title,eta,message}`, 기본 `active:false` — 저장소는 항상 열린 상태) — 서버 비용 0(Worker/D1 호출 없음). `public/_headers`에 `Cache-Control: no-store`. ② **클라이언트**(`src/game/maintenance.ts` 신규: `parseMaintenance`·`maintenanceEtaText`(ISO→`2026-11-21 15:30`, 자유 문구는 그대로)·`maintenancePopupMarkup`·`isMaintenanceResponse`(503+`code:'MAINTENANCE'`/`X-DJRPG-Maintenance`)·`fetchMaintenance(GET /maintenance.json?t=…, cache:'no-store')`·`MaintenanceWatch`(20초 폴링+탭 복귀 즉시 확인)): 로그인 화면(`src/ui/login.ts`)은 시작할 때 확인해 `active`면 `.maintenance-popup` 모달(제목·예상 시간·안내·`다시 확인`)을 띄우고 로그인/게스트 제출을 잠그며, 사냥 중(`src/main.ts`)에는 20초마다·탭이 돌아올 때 확인해 `active`가 되면 전투를 멈추고 **저장을 시도한 뒤 로그인 화면으로 새로고침**한다(로그인 화면이 같은 모달을 다시 띄운다). API가 503 점검을 돌려주면 `djrpg-maintenance` 이벤트로 즉시 같은 확인을 건다. ③ **서버 선택 플래그**: `server/maintenance.mjs`(`DJRPG_MAINTENANCE=1`이면 `503 MAINTENANCE`+`X-DJRPG-Maintenance`)+`server/endpoints/account.mjs` 입구 한 줄(환경변수를 두지 않으면 종전과 동일) ④ **정책 문서**: `AGENTS.md`·`CONTRIBUTING.md`(§16 배포·오픈 절차) ⑤ **[작업 242]의 하드코딩 점검 배너(`2026-11-21T09:00`) 제거** | songduckjin | `feat/256-maintenance-kick-policy` | `public/maintenance.json`(신규)·`public/_headers`·`src/game/maintenance.ts`(신규)·`src/ui/maintenance.ts`(신규)·`src/ui/login.ts`·`src/main.ts`·`src/styles/login.css`·`server/maintenance.mjs`(신규)·`server/endpoints/account.mjs`·`tests/maintenance-policy.test.mjs`(신규)·`tests/login-maintenance.test.mjs`·`AGENTS.md`·`CONTRIBUTING.md`·`docs/{TASK,CODE_MAP,QUICK_PATCH,WORKLOG}.md` | 보통 | [-] — 검증 완료: `npx tsc --noEmit` 통과, 신규 `tests/maintenance-policy.test.mjs` **13/13**·`tests/login-maintenance.test.mjs` 5/5·관련 83/83, 전체 **1,157건 중 1,113**(실패 44는 같은 체크아웃 `origin/main` 1,146건 중 1,102와 **같은 목록** — `public/assets/**` 누락), `NODE_OPTIONS=--max-old-space-size=2400 npx vite build` 통과(`assets/index-BZUsdGq3.js`에 `maintenance.json`·`점검 진행 중입니다`·`djrpg-maintenance`, CSS에 `.maintenance-layer`, `dist/maintenance.json`). [PR #266](https://github.com/songduckjin/DJRPG/pull/266) — Cloudflare Pages 체크 **SUCCESS**(브랜치 프리뷰 `feat-256-maintenance-kick-po.djrpg.pages.dev` `/` 200·`/maintenance.json` 200 no-store `active:false`·`/api/account` 200), `active:true`·`eta` 임시 배포(`362e57e6.djrpg.pages.dev`, 확인 뒤 되돌림)에서 **"점검 진행 중입니다"·예상 완료 시간 11월 21일 16:30 모달 + 로그인·게스트·입력 전부 비활성** 실화면 확인(스크린샷 `browser/djrpg_maintenance_popup_preview-2026-11-21-142905.png`), `Workers Builds: djrpg`는 `main`에서도 실패하는 상시 체크 **사용자 지시로 머지·배포 보류** — 다른 기능 PR(#252~#261)보다 **먼저** 머지·배포할 정책 변경이다 |

diff --git a/docs/QUICK_PATCH.md b/docs/QUICK_PATCH.md
@@ -77,6 +77,7 @@
 | 궁수가 전사 판금 투구를 씀 / 궁수 투구에서 머리카락이 비침(작업 200) | `src/game/render/archerHelmets.ts`(`archerHelmPartPath`·`archerHelmPlacement` 자세 표·`archerHeadlessBodyPath`·`archerHelmIndexFor`), `render/entities.ts` `syncArcherHelmet`·`drawHero`(머리 없는 시트 교체), `render.ts`(`archerHeadlessFrame`·`prefetchArcherHeadless`·투구 파츠 프리로드), `ui/equipmentPortrait.ts`(`equipmentPortraitArcherHelm`·`composeFallback`), `scripts/build-archer-helm-parts.py`, `scripts/preview-archer-helms.py`, 에셋 `public/assets/pilot-25d/archer_helms/*`·`archer_headless/**` | `items.ts` `baseItems.helmet` 순서(= 파츠 인덱스)·`store.ts`/`server/**`/`world.ts` 계약, 파츠 PNG 손편집(추출은 `scripts/build-archer-helm-parts.py`로만), 머리 없는 시트를 다른 셀 크기로 만들기, 파츠 없이 머리만 지우기(구멍이 뚫린다) | `node --test tests/archer-helm-render.test.mjs tests/archer.test.mjs` + `node scripts/verify-item-art.mjs` |
 | 전사 서기(대기) 자세·검 그립이 어색함 / 서기 시트 교체 후에도 옛 그림(작업 222) | `src/game/render/weapons.ts`(`WEAPON_POSES[성별].idle0` 맨몸 앵커·`idleArmor` 갑옷 앵커, `weaponPose(..., armor)`), `render/entities.ts` `syncWeaponPart(..., armor)`·`drawHero`, `render/armors.ts`(`WARRIOR_IDLE_ASSET_VERSION`·`withMotionVersion`), `render/helmets.ts` `headlessBodyPaths.*.idle`, `render.ts` `paths.pilot*`, `ui/equipmentPortrait.ts`, 에셋 `public/assets/pilot-25d/warrior_*_idle_v1.png`·`headless/`·`noweapon/`·`armors/{,headless}/` 서기 | 걷기·공격 시트(`walk`·`attack`) 갈아치우기(같은 그립이라 그대로)·서기 URL `?v=2` 누락·`WeaponPose` 표에 자세 키 늘리기(맨몸/갑옷 두 값) | `node --test tests/weapon-render.test.mjs tests/armor-render.test.mjs tests/equipped-detail.test.mjs` |
 | 대검 10종 외형이 모두 같음 / 기본 검 잔상·손에서 칼이 떨어짐(작업 156) | `game/render/weapons.ts`(`WEAPON_POSES`·`weaponIndexFor`·`weaponPartPath`·`usesSwordlessBody`·`swordlessBodyPath`), `render/entities.ts` `syncWeaponPart`·`drawHero`의 시트 교체, `render.ts`(`weaponPart`·`prefetchWeapon`·`prefetchBody`·`bodySheetFrame`), `render/armors.ts`(`armorSheetPath(..., swordless)`), `ui/equipmentPortrait.ts`(`equipmentPortraitWeapon`), `scripts/build-weapon-parts.py` | 본체 시트·갑옷 시트에 기본 검을 다시 그려 넣기(0번은 그대로 둔다)·파츠를 자세별로 늘리기(강체 1장 + 자세 표)·파츠 부팅 프리로드·`store.ts`/`server/**`/`world.ts` 변경 | `node --test tests/weapon-render.test.mjs tests/armor-render.test.mjs` |
+| 마법사 투구만 유니크인데 로브까지 빛남 / 투구 쓰면 상체 옷이 바뀌어 보임(작업 247) | `scripts/build-mage-helm-parts.py`(`NECK_Y`=104·`EXTRA_BOX`·`ERASE_BOX`), `src/game/render/mageHelmets.ts`(`MAGE_HELM_GLOW_ZONE`·`mageHelmGlowAlpha`·`mageHelmGlowMaskCanvas`/`Texture`), `render/entities.ts`(`syncGearGlow` 7번째 인자 `maskTexture`·`heroHelmGlowMask`), `ui/equipmentPortrait.ts`(`paintPatch` `destination-in`), 에셋 `public/assets/pilot-25d/mage_helms/*`(20장·`?v=5`) | **파츠를 목선(104)보다 위에서 자르기**(머리 구멍이 104까지라 어깨에 투명 구멍이 난다 — 줄이려면 `mage_headless` 12장 + `robes/headless` 54장을 함께 재생성), 발광 마스크를 새 PNG 파일로 받기(캔버스로 성별당 1장만 굽는다), 전사·궁수 투구 발광에 이 마스크 걸기(그쪽은 파츠에 얼굴만 있어 지금 그대로가 맞다), 파츠 PNG 손편집(스크립트로만) | `node --test tests/mage-helm-render.test.mjs tests/gear-rarity-glow.test.mjs` + `npx tsc --noEmit` |
 | 마법사 모자·투구 10종이 안 나옴 / 모자·후광이 잘리거나 머리카락이 비침(작업 204) | `src/game/render/mageHelmets.ts`(`mageHelmPartPath`·`mageHelmPlacement` 자세 표·`MAGE_HELM_EXTRA_TOP`·`mageHeadlessBodyPath`·`mageHelmIndexFor`), `render/entities.ts` `syncMageHelmet`·`drawHero`(머리 없는 시트 교체), `render.ts`(`mageHeadlessFrame`·`prefetchMageHeadless`·투구 파츠 프리로드), `ui/equipmentPortrait.ts`(`equipmentPortraitMageHelm`·`composeFallback`), `scripts/build-mage-helm-parts.py`, 에셋 `public/assets/pilot-25d/mage_helms/*`(362×406)·`mage_headless/{,nostaff}/**` | `items.ts` `baseItems.helmet` 순서(= 파츠 인덱스)·`store.ts`/`server/**`/`world.ts` 계약, 파츠 PNG 손편집(추출은 `scripts/build-mage-helm-parts.py`로만), 파츠 PNG를 362×362로 만들기(고깔모·후광이 잘린다), 머리 없는 시트를 다른 셀 크기로 만들기, 파츠 없이 머리만 지우기(구멍이 뚫린다), 서기 본체 시트(`mage_*_idle_v1.png`) 재생성 없이 `?v=2` 빼기 | `node --test tests/mage-helm-render.test.mjs tests/mage.test.mjs tests/staff-render.test.mjs` + `node scripts/verify-item-art.mjs` |
 | 지팡이 10종 외형·기본 지팡이 잔상(작업 201) | `game/render/staffs.ts`(`STAFF_POSES`·`staffIndexFor`·`staffPartPath`·`stafflessBodyPath`), `render/entities.ts` `syncStaffPart`·`drawHero` 마법사 분기, `render.ts`(`staffPart`·`prefetchStaff`·`staffBodyFrame`), `ui/equipmentPortrait.ts`(`equipmentPortraitStaff`), `scripts/build-staff-parts.py` | 본체 시트(`mage_*_v1.png`)에 기본 지팡이를 다시 그려 넣기·0번만 파츠 제외하기(작업 201: 0~9 모두 파츠)·파츠를 자세별로 늘리기(강체 1장 + 자세 표)·파츠 부팅 프리로드·`store.ts`/`server/**`/`world.ts` 변경 | `node --test tests/staff-render.test.mjs tests/mage.test.mjs` |
 | 가방·경매장 직업 표기·`내 직업만 보기`(작업 205) | `game/items.ts`(`skillBookJob`·`itemJob`·`usableByJob`), `ui/jobFilter.ts`, `ui/interface.ts`(`bagJobOnly`·`marketJobOnly`), `ui/modals/{equipModal,marketModal}.ts`, `ui/skillBooks.ts`, `styles/{modals,market}.css`(`.job-badge`·`.bag-job-only`·`.market-job-only`·`.job-warning`) | 공용 방어구·장신구 숨기기(세 직업이 같이 입는다)·**타직업 스킬북 사용 허용(작업 206: `useSkillBook`이 `{직업} 전용 스킬북입니다`로 막고 소모하지 않는다)**·**필터로 아이템 삭제·세이브 변경**(보기 전용)·기본값을 켜짐으로 두기(기본은 전체 보기)·필터 상태를 서버 Save에 저장·경매장 서버 필터(`filters`)에 직업 키 넣기(서버 계약 유지, 화면에서 거른다) | `node --test tests/job-filter.test.mjs tests/modal-ui.test.mjs tests/market.test.mjs tests/skill-ui.test.mjs` |

diff --git a/docs/WORKLOG.md b/docs/WORKLOG.md
@@ -1,3 +1,18 @@
+## 2026-11-21 · songduckjin 작업 247 — 마법사 모자·투구 파츠에서 상반신 걷어내기(투구만 빛나게)
+
+- **제보**: "투규만 유니크인대 갑옷도 반짝거리네"(02:23 KST, `IMG_1147`) — 마법사 여성 캐릭터에 **투구만 유니크**인데 로브 상체까지 주황색으로 반짝였다.
+- **원인(확인)**: `mage_helms/{male,female}_{0..9}_v1.png`(362×406)가 머리·모자만이 아니라 **상반신 전체**(어깨·가슴·허리·양팔·왼손의 불꽃, 셀 y 195)를 담고 있었다. 파츠가 로브 위를 덮어 상체 옷이 바뀌어 보였고, 등급색 발광이 파츠 전체에 걸려 로브까지 물들었다. 파츠 아래 경계(`EXTRA_BOX` y=196/176)가 머리 구멍(`ERASE_BOX` y=104)보다 훨씬 아래였던 것이 원인.
+- **파츠 수정**(`scripts/build-mage-helm-parts.py`): `NECK_Y = 104` 를 두고 **머리 구멍과 파츠가 같은 목선에서 끝나게** 했다(파츠 y1 196/176 → 104). 같은 시안에서 20장 재생성(9~19KB → 5~12KB) 후 `restore-pilot-alpha.py` 로 작업 227의 내부 알파 기준을 다시 맞췄다. 머리 구멍·머리 없는 시트 12장은 손대지 않아 로브·지팡이·바꿔 입기 조합이 그대로다(재생성하면 알파·팔레트가 달라져 66장이 흔들린다).
+- **발광 마스크**(`mageHelmets.ts`): ① 파츠에 얼굴이 함께 들어 있어 유니크·전설에서 얼굴이 등급색 덩어리가 되고 ② 목선에서 끊긴 파츠에 발광을 그대로 걸면 가슴께에 **직선으로 잘린 발광 띠**가 남는다. 그래서 성별 마스크를 캔버스로 굽는다 — 목선(셀 y 84→106/108)으로 갈수록 빛이 사라지고, 얼굴(중심 194/48·205/52, 안쪽 20~22px)은 부드럽게 도려낸다. 새 PNG 파일 없이 성별당 1장만 캐시한다.
+- **필드**(`entities.ts`·`render.ts`): `syncGearGlow` 에 7번째 인자 `maskTexture` 를 두고, 마법사 투구일 때만 `mageHelmGlowMaskTexture(gender)` 를 넘겨 `GameView.heroHelmGlowMask` 스프라이트(파츠와 같은 앵커·위치·배율)를 발광 3겹의 마스크로 건다. 전사·궁수 투구는 예전처럼 마스크 없음.
+- **장비창**(`equipmentPortrait.ts`): `paintPatch` 가 발광 사본을 만든 뒤 마스크를 `destination-in` 으로 합성해 도려낸다(마법사 투구 레이어일 때만). `EquipmentPortraitMageHelm` 에 `gender` 를 더했다.
+- **캐시**: `PILOT_ASSET_VERSION` 4 → 5(같은 파일명으로 다시 구웠으므로 `?v=5`). 테스트 13개 파일의 `?v=4` 기대값을 함께 올렸다.
+- **검증**: `npx tsc --noEmit`·`npm run build` 통과(배포 번들 `index-8tRnUFGl.js` 에 `heroHelmGlowMask` 포함). 신규 테스트 2건(`mage-helm-render` — 20장 전수 목선 위에서 끝남·상반신 자리 0픽셀, 발광 마스크 식: 정수리 1·목선 0·얼굴 0·단조 감소) + `gear-rarity-glow` 1건(마스크 배선·캔버스 캐시·PNG 없음). 전체 1,060건 중 1,056 통과 — 실패 4건은 변경 전 `origin/main` 과 같은 기존 건(`costume-field-render` 2·`skillbook-server` 1·`hero-art` 1).
+- **검수 이미지**(`downloads/`): `djrpg_mage_helm_torso_before_after_v1.png`(수정 전/후 · 유니크 투구 · 장비창), `djrpg_mage_helm_glow_portrait_v1.png`(일반/유니크/전설 · 남녀), `djrpg_mage_helm_glow_field_v1.png`(필드 42% · 일반/유니크), `djrpg_mage_helm_glow_all_{female,male}_v1.png`(10종 전수 · 유니크).
+- **프리뷰 배포 실측**: [PR #252](https://github.com/songduckjin/DJRPG/pull/252) Cloudflare Pages 체크 SUCCESS, 프리뷰 `44da4568.djrpg.pages.dev` 에서 `assets/pilot-25d/mage_helms/female_0_v1.png?v=5` = 로컬 파일(md5 `04c5be3a…`, 7,881B) **일치** · 배포 번들에 `heroHelmGlowMask`·성별 마스크 표(`fadeEnd:106/108`) 포함 · 게스트로 마법사(여) 캐릭터를 만들어 필드·내 정보 초상화가 정상 렌더되는 것까지 확인(투구는 드롭 전이라 파츠·발광은 합성 이미지로만 검수).
+- **상태**: PR 준비 완료 — 사용자 지시 "오늘부터는 모아서 배포하자"에 따라 **머지·배포하지 않았다**.
+- **남은 것**: 어깨까지 파츠를 더 줄이려면 머리 구멍(현재 셀 y 104)을 목선까지 올려야 하고, 그러면 `mage_headless` 12장 + `robes/headless` 54장을 같은 규칙으로 다시 구워야 한다(그대로 줄이면 어깨에 투명 구멍이 난다). 이번 작업은 파츠·발광만 손봤다.
+
 ## 2026-11-21 · fks3997 작업 253 — 판매 등록 그리드 줄 간격 · 내 직업 스킬북 가방 40칸 제외 · 공용창고 N+1 제거·이동 중 표시 (운영 `main`)
 
 - **요청**(사용자 제보·지시 11-21): "판매등록창왜이러냐"(제보 사진 — 판매 등록 물품 줄 사이가 세로로 크게 벌어짐) → "가방에 내 직업 스킬북 수량도 더하지 말라(별개로 빼라)" → "공용창고 선택 꺼내기 너무 느리다.." → "로딩인지 모르겠음". 미리보기(`preview/gravel-background-fks3997`)에 4커밋으로 나눠 검수한 뒤, **미리보기 전용 기능(보물 주머니 버리기·테스트 우편)은 빼고 이 4커밋만** `main` 최신 위로 체리픽해 운영에 배포했다.
